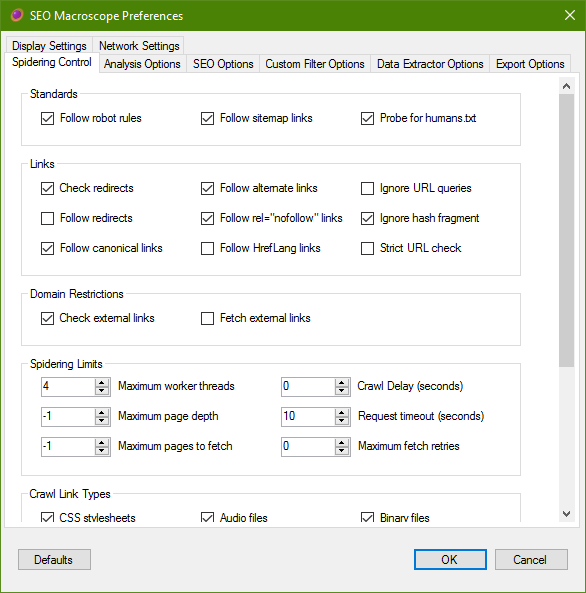
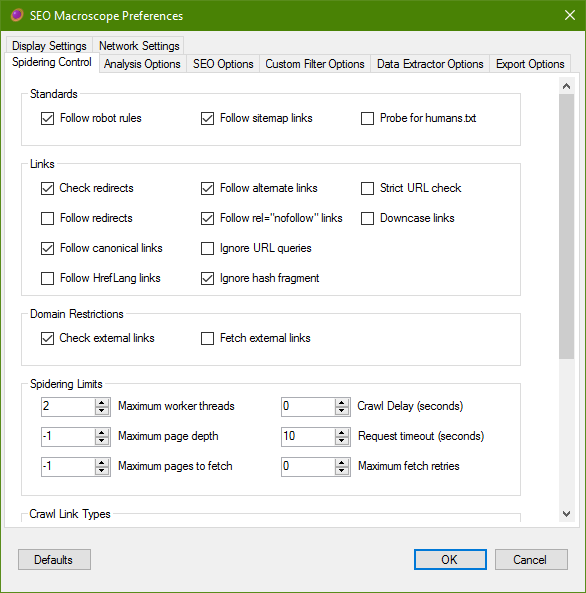
Updating documentation

diff --git a/SEOMacroscopeSeriesOne/src/MacroscopeUserControls/MacroscopePrefsControl/MacroscopePrefsControl.Designer.cs b/SEOMacroscopeSeriesOne/src/MacroscopeUserControls/MacroscopePrefsControl/MacroscopePrefsControl.Designer.cs
@@ -204,6 +204,7 @@ namespace SEOMacroscope
       this.checkBoxFollowRobotsProtocol = new System.Windows.Forms.CheckBox();
       this.checkBoxFollowSitemapLinks = new System.Windows.Forms.CheckBox();
       this.groupBox10 = new System.Windows.Forms.GroupBox();
+      this.checkBoxDowncaseLinks = new System.Windows.Forms.CheckBox();
       this.checkBoxFollowAlternateLinks = new System.Windows.Forms.CheckBox();
       this.checkBoxCheckRedirects = new System.Windows.Forms.CheckBox();
       this.checkBoxCrawlStrictUrlCheck = new System.Windows.Forms.CheckBox();
@@ -364,7 +365,6 @@ namespace SEOMacroscope
       this.label9 = new System.Windows.Forms.Label();
       this.groupBox28 = new System.Windows.Forms.GroupBox();
       this.checkBoxServerCertificateValidation = new System.Windows.Forms.CheckBox();
-      this.checkBoxDowncaseLinks = new System.Windows.Forms.CheckBox();
       this.tabControlPreferences.SuspendLayout();
       this.tabPageSpideringControl.SuspendLayout();
       this.flowLayoutPanel1.SuspendLayout();
@@ -550,6 +550,15 @@ namespace SEOMacroscope
       this.groupBox10.TabIndex = 2;
       this.groupBox10.TabStop = false;
       this.groupBox10.Text = "Links";
+      // 
+      // checkBoxDowncaseLinks
+      // 
+      this.checkBoxDowncaseLinks.Location = new System.Drawing.Point(340, 50);
+      this.checkBoxDowncaseLinks.Name = "checkBoxDowncaseLinks";
+      this.checkBoxDowncaseLinks.Size = new System.Drawing.Size(150, 24);
+      this.checkBoxDowncaseLinks.TabIndex = 10;
+      this.checkBoxDowncaseLinks.Text = "Downcase links";
+      this.checkBoxDowncaseLinks.UseVisualStyleBackColor = true;
       // 
       // checkBoxFollowAlternateLinks
       // 
@@ -2472,15 +2481,6 @@ namespace SEOMacroscope
       this.checkBoxServerCertificateValidation.TabIndex = 1;
       this.checkBoxServerCertificateValidation.Text = "Enable certificate validation";
       this.checkBoxServerCertificateValidation.UseVisualStyleBackColor = true;
-      // 
-      // checkBoxDowncaseLinks
-      // 
-      this.checkBoxDowncaseLinks.Location = new System.Drawing.Point(340, 50);
-      this.checkBoxDowncaseLinks.Name = "checkBoxDowncaseLinks";
-      this.checkBoxDowncaseLinks.Size = new System.Drawing.Size(150, 24);
-      this.checkBoxDowncaseLinks.TabIndex = 10;
-      this.checkBoxDowncaseLinks.Text = "Downcase Links";
-      this.checkBoxDowncaseLinks.UseVisualStyleBackColor = true;
       // 
       // MacroscopePrefsControl
       // 

diff --git a/docs/manual/index.md b/docs/manual/index.md
@@ -38,6 +38,14 @@ Export sitemaps in text and XML formats, and list views to CSV and Excel files.
 
 A list of URLs to be scanned may be either loaded from a text file, or pasted from the clipboard. The scanning process is the same for either method.
 
+### Load and Save Sessions (Experimental)
+
+> This is an experimental feature, saved sessions may not be compatible with subsequent versions of SEO Macroscope.
+
+The current session may be saved to a file, and then reloaded later. A crawl may be stopped, saved, reloaded, and then resumed.
+
+This feature may be useful for saving the progress of very long crawls, or when it may be useful to examine a particular crawl at a later date.
+
 ### Export Sitemaps
 
 The crawled results may be exported to XML or Text format sitemap files.
@@ -140,7 +148,7 @@ Please note that this will also mark localized hosts as being "internal" hosts.
 
 ##### Ignore URL queries
 
-If this option is enabled, then the query string will be stripped from the URL, and the resultant URL crawled.
+If this option is enabled, then the query string will be stripped from the URL, and the resultant bare URL crawled.
 
 ##### Ignore hash fragment
 
@@ -152,7 +160,11 @@ In many cases, this may help to speed up crawling, as it will help to prevent du
 
 If this option is enabled, then strict include/exclude URL checking is applied before each URL is added to the crawl queue.
 
-This may help to speed up the crawling process.
+This may help to speed up the crawling process by eliminating some superfluous URLs from the crawl queue.
+
+##### Downcase links
+
+If this option is enabled, then the path component of all URLs added to the crawl queue will be downcased. Use this sparingly, as it may otherwise mask certain types of problems on the website.
 
 #### Domain Restrictions
 
@@ -757,17 +769,19 @@ The crawled results lists are the upper tabbed panels on the left hand side of t
 
 These lists reveal various aspects about the pages and documents found during a crawl.
 
+In many of these list views, clicking the row will show the details of the URL selected in the lower panel.
+
 ### Structure Overview
 
-TBD
+This tab shows a general overview of all URLs found during the crawl.
 
 ### Hierarchy
 
-TBD
+This tab shows a tree view of the crawled URLs, it displays an outline of the crawled sites.
 
 ### Errors
 
-TBD
+This tab displays the critical errors found during the crawl.
 
 ### Search
 
@@ -775,19 +789,19 @@ TBD
 
 ### Robots
 
-TBD
+This tab displays URLs that were blocked according to the rules found in the site's `robots.txt` file.
 
 ### Sitemaps
 
-TBD
+This tab displays the XML sitemaps discovered during the crawl.
 
 ### Sitemap Errors
 
-TBD
+This tab displays the errors found in the XML sitemaps during the crawl.
 
 ### Sitemaps Audit
 
-TBD
+This tab shows how the robot rules were applied to URLs in the XML sitemaps during the crawl.
 
 ### Canonical Analysis
 
@@ -834,6 +848,10 @@ TBD
 TBD
 
 ### Keywords
+
+TBD
+
+### Keywords Presence
 
 TBD
 
